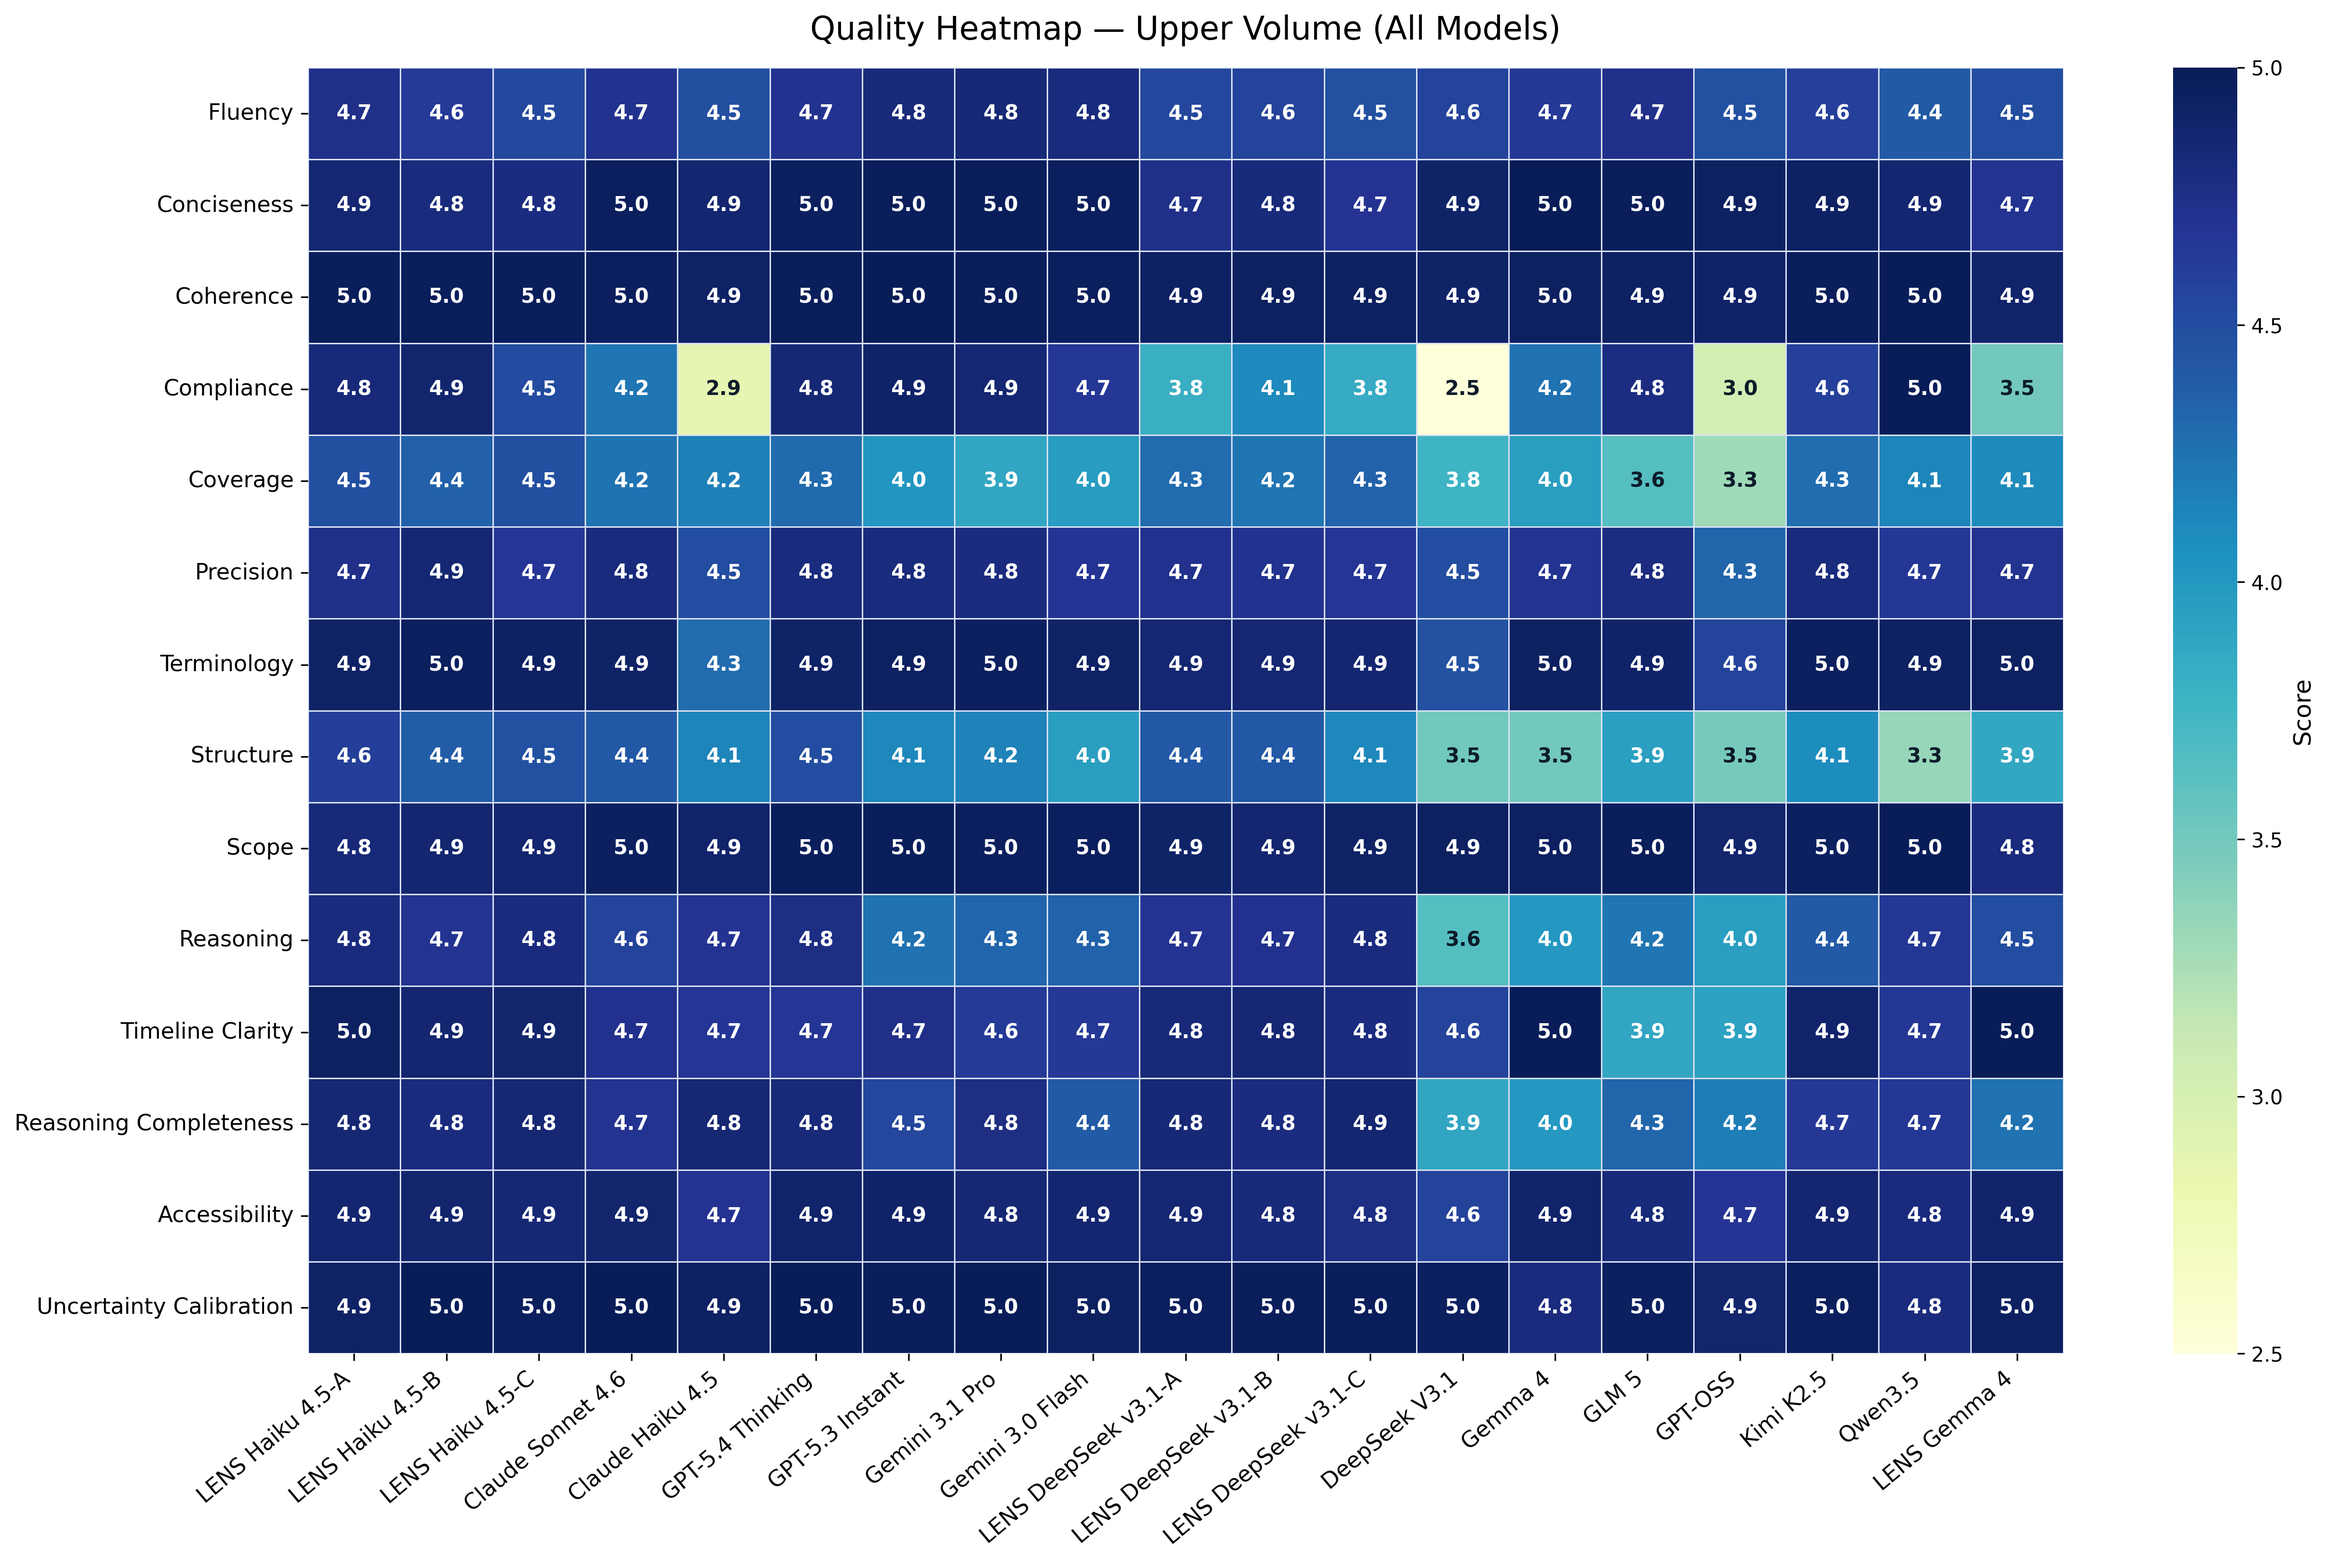
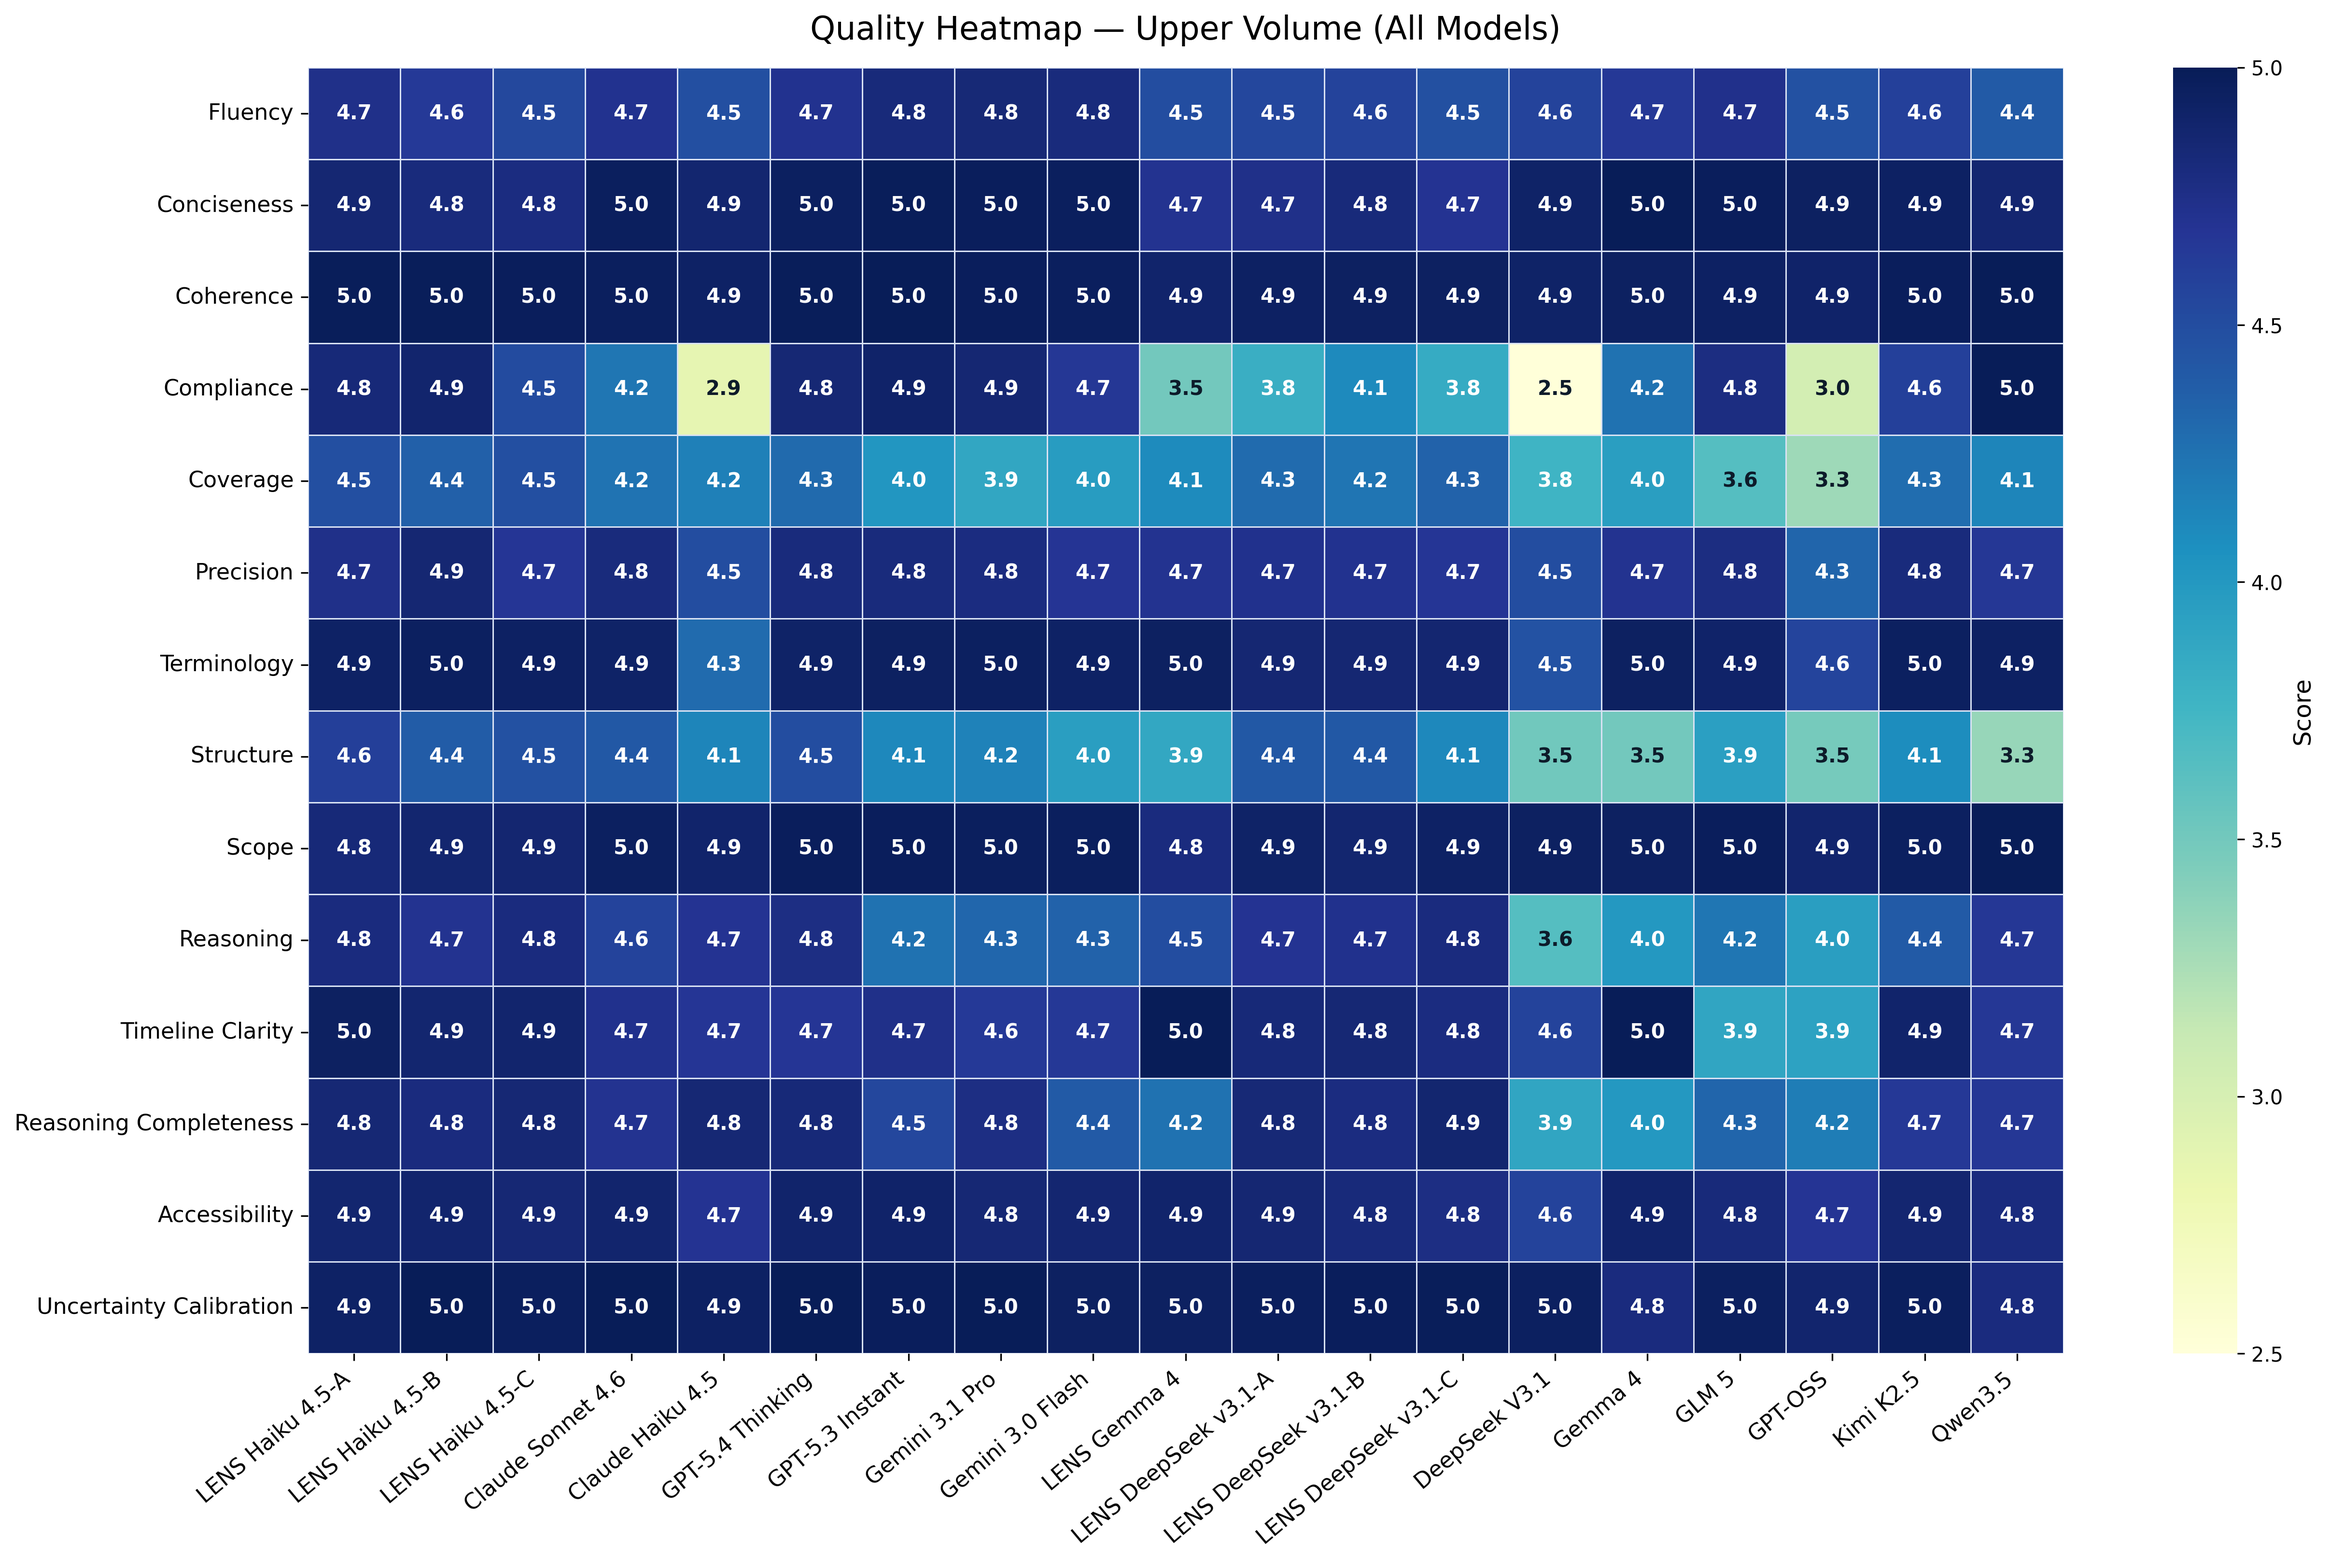
fix: exclude mistral from charts, add gemma4 labels/priority, rebuild

diff --git a/scripts/plot_weighted_recall_dumbbell.py b/scripts/plot_weighted_recall_dumbbell.py
@@ -48,6 +48,7 @@ MARKER_SIZE = 80
 EXCLUDED_CONDITIONS = {
     "baseline_ollama_qwen3-next-80b-cloud",
     "baseline_ollama_nemotron-3-super-cloud",
+    "baseline_ollama_mistral-large-3-675b-cloud",
 }
 
 CANONICAL_PRIORITY = {
@@ -60,9 +61,10 @@ CANONICAL_PRIORITY = {
     "baseline_gpt-5.3": 13,
     "baseline_gemini-3.1-pro": 14,
     "baseline_gemini-3.0-flash": 15,
-    "LENS-Full-DeepSeek_v31": 20,
-    "LENS-NoReact-DeepSeek_v31": 21,
-    "LENS-NoAFG-DeepSeek_v31": 22,
+    "LENS-Full-DeepSeek_v31_writer_gemma4": 20,
+    "LENS-Full-DeepSeek_v31": 21,
+    "LENS-NoReact-DeepSeek_v31": 22,
+    "LENS-NoAFG-DeepSeek_v31": 23,
 }
 
 DISPLAY_LABELS = {
@@ -82,7 +84,8 @@ DISPLAY_LABELS = {
     "baseline_ollama_glm-5-cloud": "GLM 5 (744B / 40A)",
     "baseline_ollama_gpt-oss-120b-cloud": "GPT-OSS (117B / 5.1A)",
     "baseline_ollama_kimi-k2.5-cloud": "Kimi K2.5 (1T / 32A)",
-    "baseline_ollama_mistral-large-3-675b-cloud": "Mistral Large 3 (675B / 41A)",
+    "baseline_ollama_gemma4-31b-cloud": "Gemma 4",
+    "LENS-Full-DeepSeek_v31_writer_gemma4": "LENS-Gemma 4",
     "baseline_ollama_qwen3-next-80b-cloud": "Qwen3 Next (80B / 3A)",
     "baseline_ollama_qwen3.5-397b-cloud": "Qwen3.5 (397B / 17A)",
     "baseline_ollama_nemotron-3-super-cloud": "Nemotron 3 Super (120B / 12A)",

diff --git a/scripts/plot_fact_severity_trials.py b/scripts/plot_fact_severity_trials.py
@@ -41,6 +41,7 @@ DISPLAY_LABELS = {
     "LENS-NoAFG-DeepSeek_v31": "LENS-DeepSeek v3.1-B",
     "LENS-NoReact-DeepSeek_v31": "LENS-DeepSeek v3.1-C",
     "LENS-Full-DeepSeek_v31_writer_gemma4": "LENS-Gemma 4",
+    "baseline_ollama_gemma4-31b-cloud": "Gemma 4",
     "baseline_claude-haiku": "Claude Haiku 4.5",
     "baseline_claude-sonnet": "Claude Sonnet 4.6",
     "baseline_gpt-5.3": "GPT-5.3 Instant",
@@ -51,7 +52,7 @@ DISPLAY_LABELS = {
     "baseline_ollama_glm-5-cloud": "GLM 5 (744B / 40A)",
     "baseline_ollama_gpt-oss-120b-cloud": "GPT-OSS (117B / 5.1A)",
     "baseline_ollama_kimi-k2.5-cloud": "Kimi K2.5 (1T / 32A)",
-    "baseline_ollama_mistral-large-3-675b-cloud": "Mistral Large 3 (675B / 41A)",
+    "baseline_ollama_gemma4-31b-cloud": "Gemma 4",
     "baseline_ollama_qwen3.5-397b-cloud": "Qwen3.5 (397B / 17A)",
 }
 
@@ -74,6 +75,7 @@ CANONICAL_PRIORITY = {
 EXCLUDED_CONDITIONS = {
     "baseline_ollama_qwen3-next-80b-cloud",
     "baseline_ollama_nemotron-3-super-cloud",
+    "baseline_ollama_mistral-large-3-675b-cloud",
 }
 
 C_MATCHED = "#86efac"

diff --git a/scripts/plot_fact_severity_bar.py b/scripts/plot_fact_severity_bar.py
@@ -40,6 +40,7 @@ VOLUMES_MAP = {"upper": "上冊", "middle": "中冊", "lower": "下冊"}
 EXCLUDED_CONDITIONS = {
     "baseline_ollama_qwen3-next-80b-cloud",
     "baseline_ollama_nemotron-3-super-cloud",
+    "baseline_ollama_mistral-large-3-675b-cloud",
 }
 
 LABELS = {
@@ -59,7 +60,8 @@ LABELS = {
     "baseline_ollama_glm-5-cloud": "GLM 5",
     "baseline_ollama_gpt-oss-120b-cloud": "GPT-OSS",
     "baseline_ollama_kimi-k2.5-cloud": "Kimi K2.5",
-    "baseline_ollama_mistral-large-3-675b-cloud": "Mistral Large 3",
+    "baseline_ollama_gemma4-31b-cloud": "Gemma 4",
+    "LENS-Full-DeepSeek_v31_writer_gemma4": "LENS Gemma 4",
     "baseline_ollama_qwen3.5-397b-cloud": "Qwen3.5",
 }
 

diff --git a/scripts/plot_fact_recall_scatter.py b/scripts/plot_fact_recall_scatter.py
@@ -31,9 +31,10 @@ CANONICAL_PRIORITY = {
     "baseline_gpt-5.3": 13,
     "baseline_gemini-3.1-pro": 14,
     "baseline_gemini-3.0-flash": 15,
-    "LENS-Full-DeepSeek_v31": 20,
-    "LENS-NoReact-DeepSeek_v31": 21,
-    "LENS-NoAFG-DeepSeek_v31": 22,
+    "LENS-Full-DeepSeek_v31_writer_gemma4": 20,
+    "LENS-Full-DeepSeek_v31": 21,
+    "LENS-NoReact-DeepSeek_v31": 22,
+    "LENS-NoAFG-DeepSeek_v31": 23,
 }
 
 

diff --git a/scripts/plot_metrics_heatmap.py b/scripts/plot_metrics_heatmap.py
@@ -79,9 +79,10 @@ CANONICAL_PRIORITY = {
     "baseline_gpt-5.3": 13,
     "baseline_gemini-3.1-pro": 14,
     "baseline_gemini-3.0-flash": 15,
-    "LENS-Full-DeepSeek_v31": 20,
-    "LENS-NoAFG-DeepSeek_v31": 21,
-    "LENS-NoReact-DeepSeek_v31": 22,
+    "LENS-Full-DeepSeek_v31_writer_gemma4": 20,
+    "LENS-Full-DeepSeek_v31": 21,
+    "LENS-NoAFG-DeepSeek_v31": 22,
+    "LENS-NoReact-DeepSeek_v31": 23,
 }
 
 

diff --git a/scripts/plot_fact_recall_dumbbell.py b/scripts/plot_fact_recall_dumbbell.py
@@ -94,6 +94,7 @@ def mean_or_none(values: list[float | None]) -> float | None:
 EXCLUDED_CONDITIONS = {
     "baseline_ollama_qwen3-next-80b-cloud",   # 80B / 3A
     "baseline_ollama_nemotron-3-super-cloud",  # 120B / 12A
+    "baseline_ollama_mistral-large-3-675b-cloud",
 }
 
 CANONICAL_PRIORITY = {
